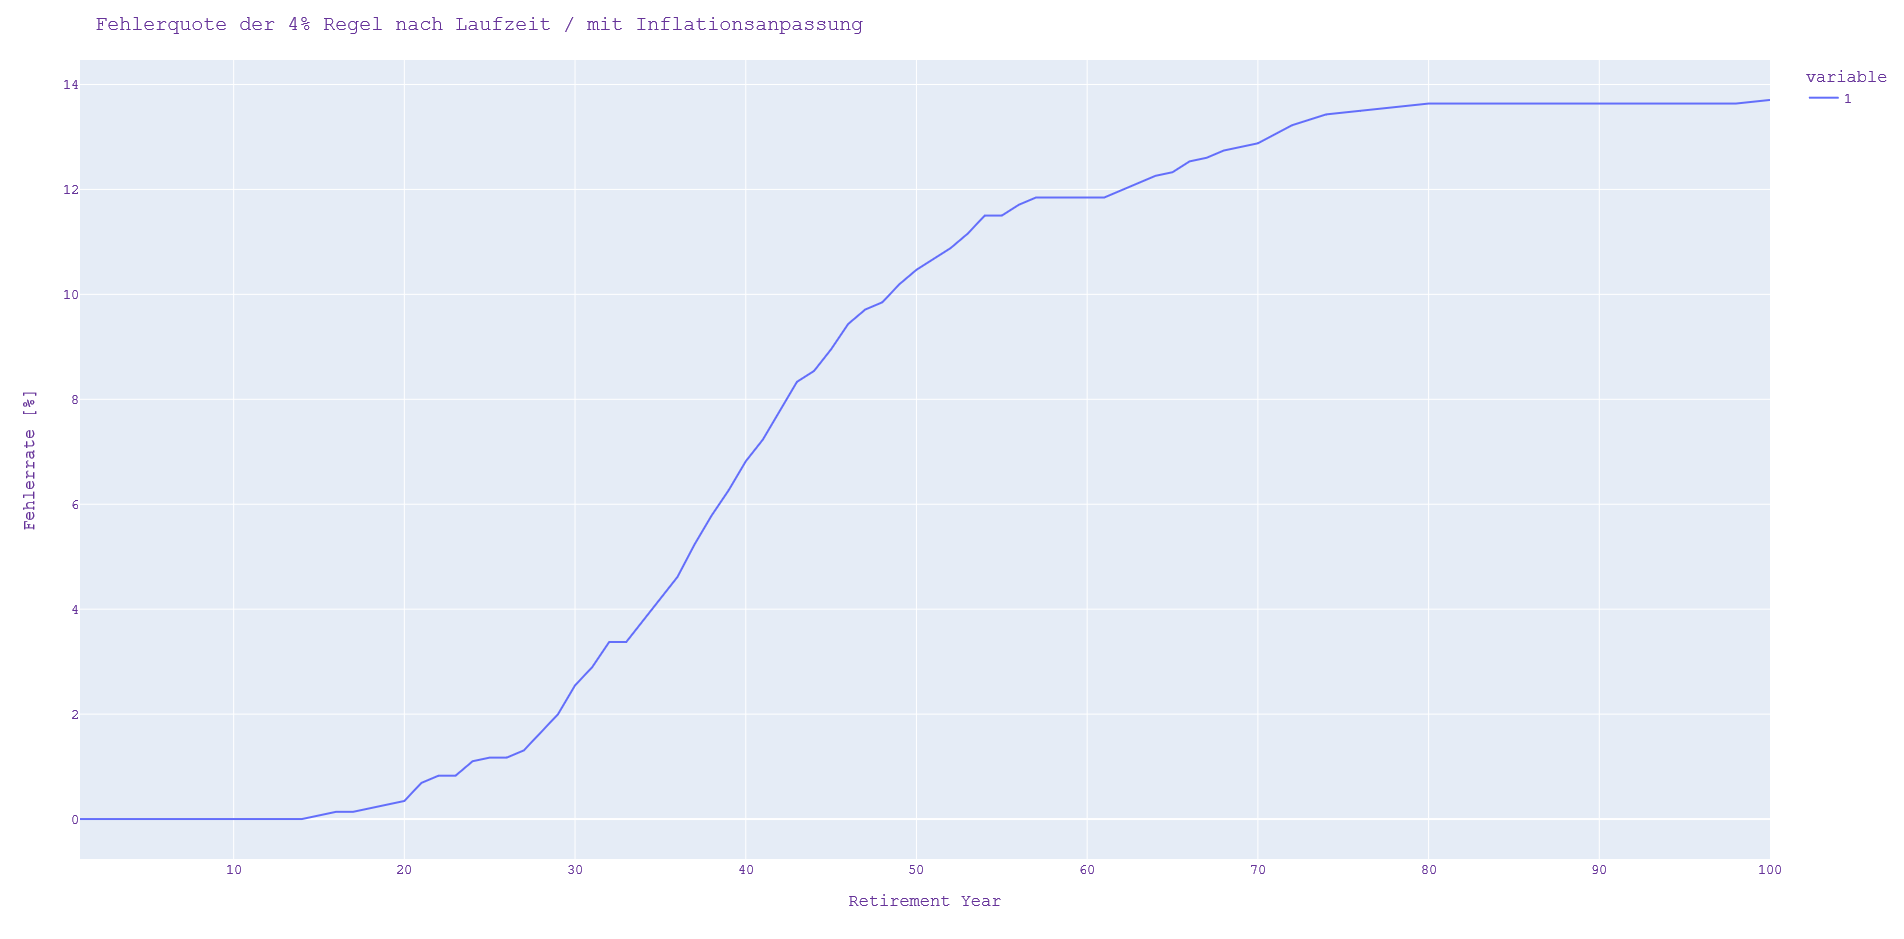
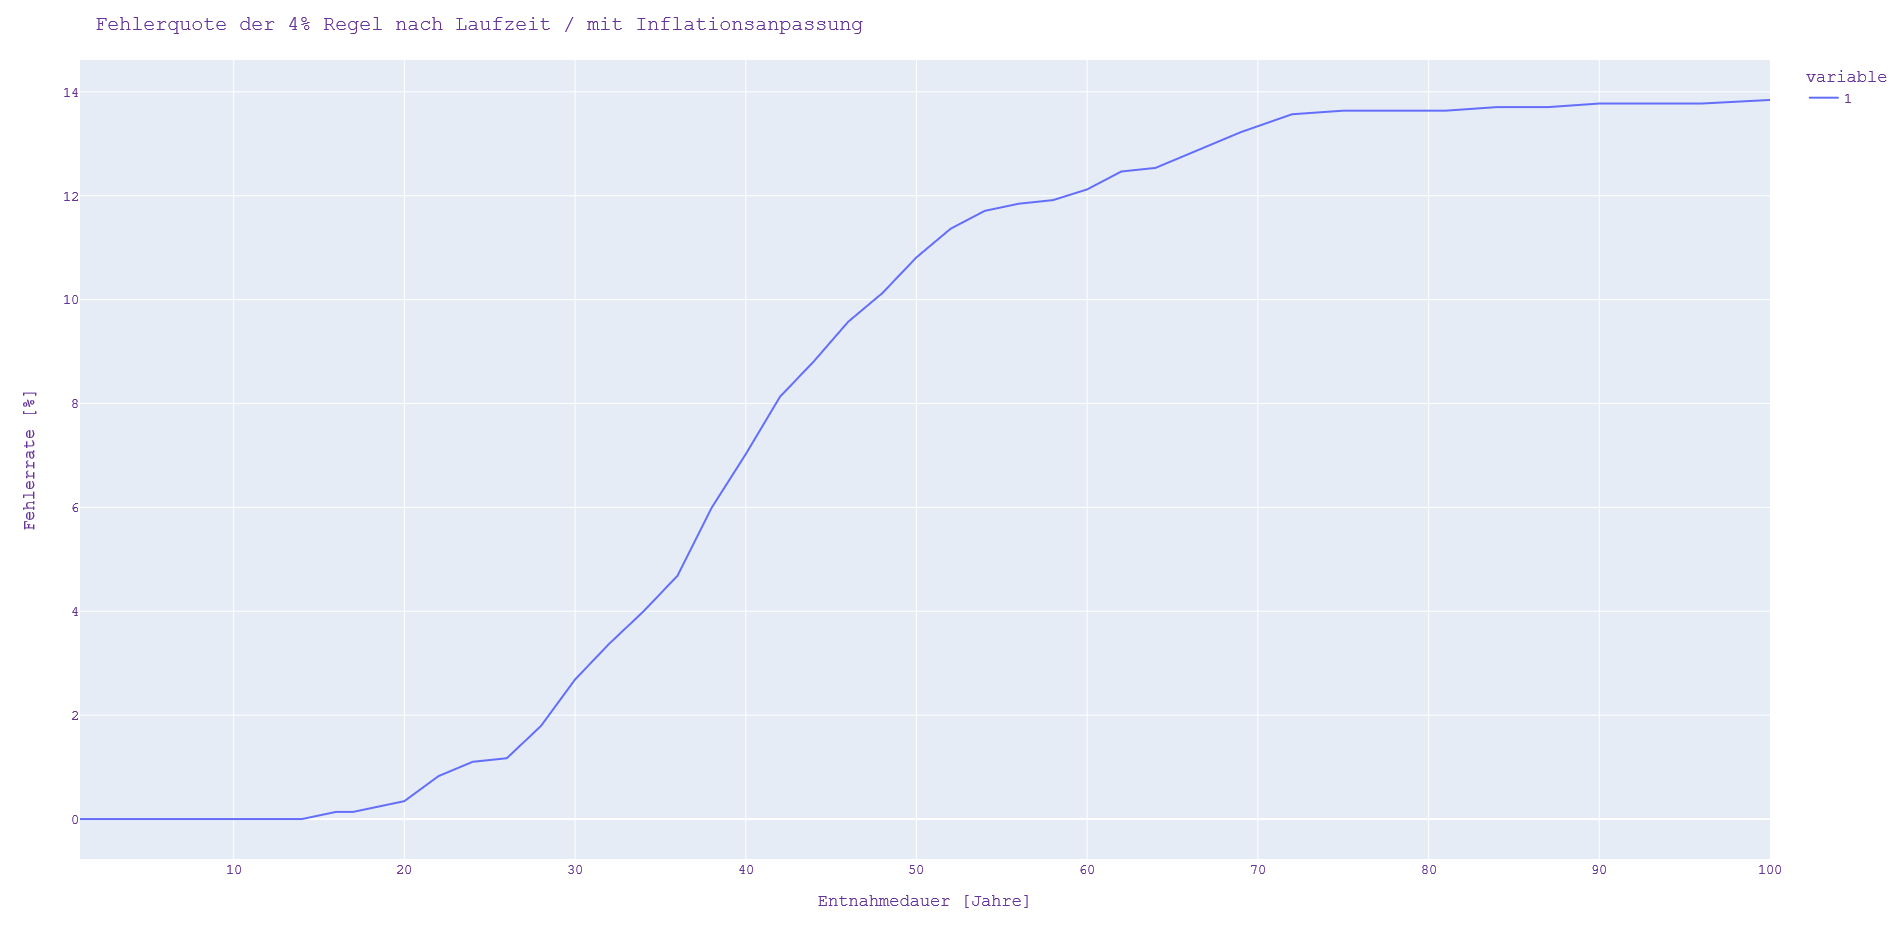
Auswertung der 4% Regel

diff --git a/README.md b/README.md
@@ -9,7 +9,7 @@ Das Python Tool dient zur Bestimmung der sicheren Entnahmerate aus einem Weltpor
 
 Die Ideen und Ansätze für diese frei zugängliche Implementierung basieren auf der Website: [Finanzen? Erklärt!](https://www.finanzen-erklaert.de/)
 
-## Datengrundlage
+## 1. Datengrundlage
 Die Datengrundlage für die monatliche Berechnungen basieren auf dem S&P500 Daten. Diese Daten inkl. der Inflation sind auf der Webseite:
 [Early Retirement Now](https://earlyretirementnow.com/2018/08/29/google-sheet-updates-swr-series-part-28/) als Excel Tabelle verfügbar.
 
@@ -30,16 +30,22 @@ print(return_df.head())
 ....
 
 ```
-
-## Analyse der 4%-Regel
+## 2. Vorsicht vor der 4% Regel
+Die folgende Implementierung und Auswertung bezieht sich auf den [Finanzen?Erklärt! Blog](https://www.finanzen-erklaert.de/) Artikel:  [Vorsicht vor der 4% Regel]( https://www.finanzen-erklaert.de/vorsicht-vor-der-4-regel/)
+## 2.1. Analyse der 4% Regel
 Im Oktober 1994 wurde die [Trinity-Studie](http://www.retailinvestor.org/pdf/Bengen1.pdf) durch William Bengen veröffentlich. Diese Studie, besser bekannt unter der 4%-Regel 
-wird im folgenden mit Hilfe der o. g. Daten validiert ...
+wird im folgenden mit Hilfe der o. g. Daten validiert. 
+Im Gegensatz zu der Trinity-Studie wird der Aktienanteil auf 100% gesetzt, da Anleihen aktuell sowie in der Zukunft wohl keine oder nur geringe Rendite bringen.
 
-Coming soon.
-
-Das folgende Bild zeigt die Fehlerwahrscheinlichkeit der 4% Regel über eine Laufzeit von 0 - 100 Jahren.
+Mit dem Python-Skript [Entnahmesimulation.py](https://github.com/ThoEngel/rentenplanung/blob/main/Entnahmesimulation.py) wird die 4% Regel für unterschiedliche Laufzeiten berechnet.
+Das folgende Bild zeigt die Fehlerquote der 4%-Regel über eine Laufzeit von 0-100 Jahren.
 
 ![Fehlerquote der 4% Regel nach Laufzeit mit Inflatiosanpassung](docu/Fehlerquote4ProzentRegel.png)
+
+### 2.2. Sichere Entnahmerate 
+Das folgende Bild zeigt die Auswertung der sicheren Entnahmerate nach Laufzeit sowie in Abhängigkeit von vier verschiedenen Fehlerquoten:
+
+Coming soon ....
 
 
 
